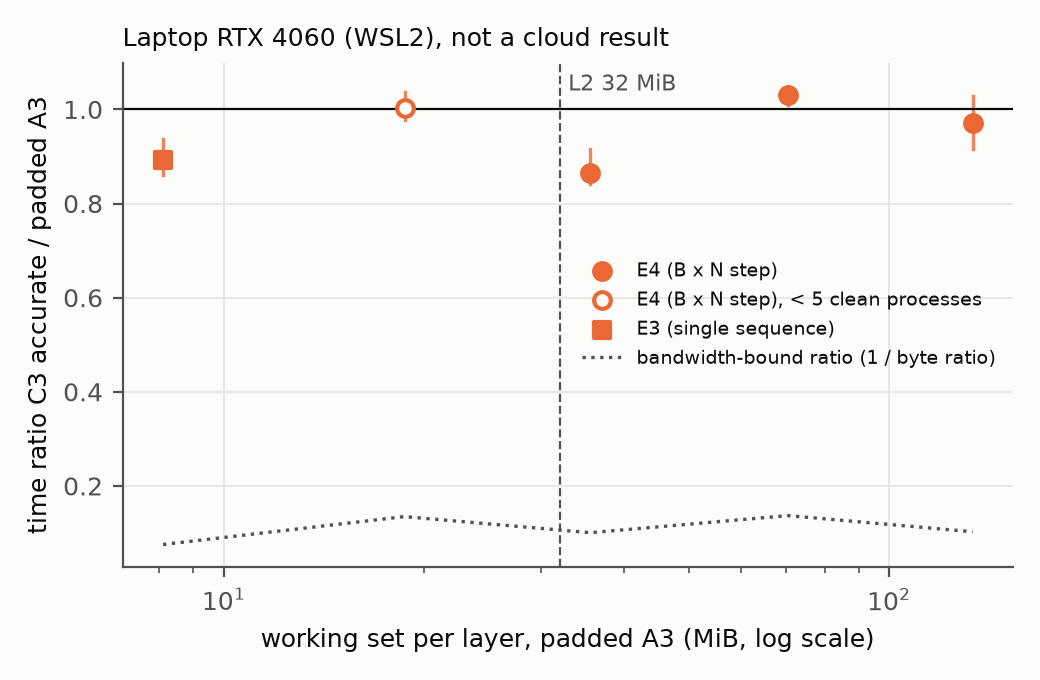
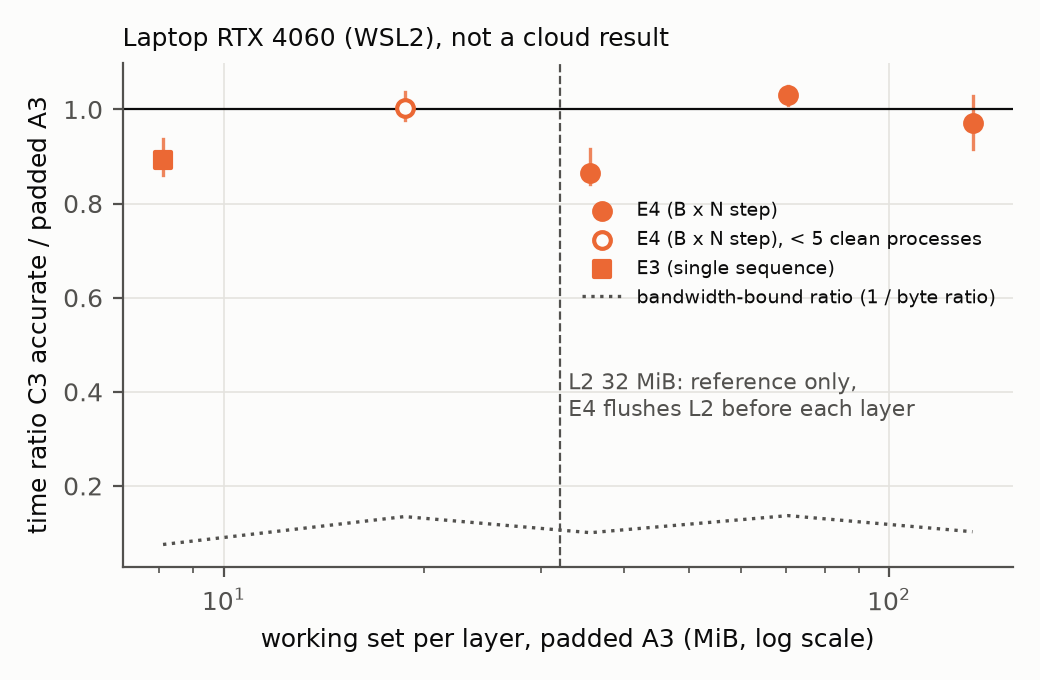
feat(paper): numerics figure; regime map L2 line labelled reference only
fig4_numerics.py plots max error vs N (total and kernel-attributable)
from the E3 scale log and the CPU rounding emulation. fig3 gets an
--l2-label option; the committed regime map now says the L2 line is a
reference only because E4 flushes L2 before each layer. Data unchanged.

Changed region(s): [[0.5538, 0.2779, 0.9538, 0.6176], [0.5538, 0.0926, 0.6462, 0.1544], [0.8615, 0.4941, 0.9538, 0.5559]]

diff --git a/scripts/paper/fig4_numerics.py b/scripts/paper/fig4_numerics.py
@@ -1,0 +1,85 @@
+#!/usr/bin/env python3
+"""Fig. 4, numerics: (a) max |error| vs N on heavy-tailed and uniform inputs, total (solid) and
+kernel-attributable (dotted) per variant, from the GPU scale suite; (b) the CPU emulation that
+isolates which FP16 rounding causes the heavy-tailed error. Reads only committed result files:
+reports/e3_splitk_20261002/scale_c3_modes/scale_suite.log and scale/emulate_c3_numerics.out.
+
+usage: fig4_numerics.py --out reports/local_4060_20261101/figures/fig4_numerics.png
+"""
+
+import argparse
+import re
+import sys
+from pathlib import Path
+
+sys.path.insert(0, str(Path(__file__).resolve().parent))
+from make_tables import E3REP, scale_rows  # noqa: E402
+from paper_data import COLORS, INK, NAMES  # noqa: E402
+
+VARIANTS = ("c3_fast", "c3_accurate", "a3pad")
+
+
+def emulation_rows(path):
+    rows = []
+    for line in Path(path).read_text().splitlines():
+        m = re.match(r"(.+?)\s+max=(\S+) mean=(\S+)", line)
+        if m:
+            rows.append((m.group(1).strip(), float(m.group(2))))
+    return rows
+
+
+def render(rows, emu, out):
+    from plotstyle import setup
+
+    plt = setup()
+    fig, (ax, bx) = plt.subplots(1, 2, figsize=(7.0, 3.0), dpi=200, width_ratios=[1.25, 1])
+    for inputs, marker, alpha in (("heavy_tailed", "o", 1.0), ("uniform", "s", 0.45)):
+        for v in VARIANTS:
+            sel = sorted((r for r in rows if r["inputs"] == inputs and r["variant"] == v),
+                         key=lambda r: r["n"])
+            ns = [r["n"] for r in sel]
+            label = f"{NAMES[v]}" if inputs == "heavy_tailed" else None
+            ax.plot(ns, [r["total"] for r in sel], marker=marker, ms=4, color=COLORS[v],
+                    alpha=alpha, label=label)
+            ax.plot(ns, [r["kernel"] for r in sel], ls=":", marker=marker, ms=3,
+                    color=COLORS[v], alpha=alpha)
+    ax.axhline(3e-3, color=INK["secondary"], lw=0.8, ls="--")
+    ax.text(4096, 3.15e-3, "3e-3 gate", fontsize=7, color=INK["secondary"])
+    ax.set_xscale("log", base=2)
+    ax.set_yscale("log")
+    ax.set_xlabel("context length N")
+    ax.set_ylabel("max |error| vs exact reference")
+    ax.set_title("(a) solid: total, dotted: kernel-attributable\n"
+                 "circles: heavy-tailed, faded squares: uniform", fontsize=7.5)
+    fig.legend(*ax.get_legend_handles_labels(), loc="lower left", ncol=3, fontsize=7,
+               bbox_to_anchor=(0.01, 0.0))
+
+    labels = [lab.replace(" (online softmax only)", "").replace(" (C3 numerics)", "")
+              for lab, _ in emu]
+    bx.barh(range(len(emu)), [v for _, v in emu], color=COLORS["c3_fast"])
+    bx.set_yticks(range(len(emu)), labels, fontsize=7)
+    bx.invert_yaxis()
+    bx.set_xscale("log")
+    bx.set_xlabel("max |error| (CPU emulation)")
+    bx.set_title("(b) heavy-tailed, N=8192: which rounding", fontsize=7.5)
+    fig.text(0.99, 0.02, "laptop RTX 4060, WSL2, not a cloud result; no timing",
+             ha="right", fontsize=6, color=INK["secondary"])
+    fig.tight_layout(rect=(0, 0.09, 1, 1))
+    Path(out).parent.mkdir(parents=True, exist_ok=True)
+    fig.savefig(out)
+    print(f"FIG4_OK {out}")
+
+
+def main(argv=None):
+    ap = argparse.ArgumentParser(description=__doc__.splitlines()[0])
+    ap.add_argument("--out", required=True)
+    args = ap.parse_args(argv)
+    rows = scale_rows(E3REP / "scale_c3_modes" / "scale_suite.log")
+    emu = emulation_rows(E3REP / "scale" / "emulate_c3_numerics.out")
+    if not rows or not emu:
+        raise SystemExit("no rows parsed from the scale log or emulation output")
+    render(rows, emu, args.out)
+
+
+if __name__ == "__main__":
+    main()

diff --git a/scripts/paper/fig3_regime_map.py b/scripts/paper/fig3_regime_map.py
@@ -18,7 +18,7 @@ from paper_data import COLORS, INK, load_analysis, regime_points, synthetic_anal
 MARKERS = {"e3_timing": "s", "e4_timing": "o"}
 
 
-def render(points, l2_mib, out, title):
+def render(points, l2_mib, out, title, l2_label=None):
     from plotstyle import setup
 
     plt = setup()
@@ -62,9 +62,9 @@ def render(points, l2_mib, out, title):
     ax.axhline(1.0, color=INK["primary"], lw=0.8)
     ax.axvline(l2_mib, color=INK["secondary"], lw=0.8, ls="--")
     ax.annotate(
-        f"L2 {l2_mib:g} MiB",
-        (l2_mib, ax.get_ylim()[1]),
-        xytext=(3, -10),
+        l2_label or f"L2 {l2_mib:g} MiB",
+        (l2_mib, ax.get_ylim()[0] + 0.3 * (ax.get_ylim()[1] - ax.get_ylim()[0])),
+        xytext=(3, 0),
         textcoords="offset points",
         fontsize=8,
         color=INK["secondary"],
@@ -73,7 +73,7 @@ def render(points, l2_mib, out, title):
     ax.set_xlabel("working set per layer, padded A3 (MiB, log scale)")
     ax.set_ylabel("time ratio C3 accurate / padded A3")
     ax.set_title(title, fontsize=9, loc="left")
-    ax.legend(fontsize=7, loc="best")
+    ax.legend(fontsize=7, loc="center right", bbox_to_anchor=(1.0, 0.62))
     fig.tight_layout()
     fig.savefig(out)
     plt.close(fig)
@@ -86,6 +86,7 @@ def main(argv=None):
     ap.add_argument("--l2-mib", type=float)
     ap.add_argument("--out", required=True)
     ap.add_argument("--title", default="")
+    ap.add_argument("--l2-label", help="text next to the L2 line (default: 'L2 <size> MiB')")
     ap.add_argument("--self-test", action="store_true")
     a = ap.parse_args(argv)
     if a.self_test:
@@ -98,7 +99,7 @@ def main(argv=None):
         title, l2 = a.title, a.l2_mib
     if not points:
         raise SystemExit("no configurations with a ratio and analytic bytes")
-    print(render(points, l2, a.out, title))
+    print(render(points, l2, a.out, title, a.l2_label))
 
 
 if __name__ == "__main__":

diff --git a/reports/local_4060_20261101/README.md b/reports/local_4060_20261101/README.md
@@ -42,7 +42,8 @@ AC power and the Windows "High performance" plan (checked through `powershell.ex
 
 ## Figure captions
 
-- `fig3_regime_map.png`: C3 accurate / padded A3, primary dataset, vs padded-A3 bytes per layer. Filled = claim-eligible (>= 5 clean processes); hollow = not. E3 points (squares) are from the old harness version; E4 points from the new one. **The L2 line is a reference only: E4 flushes 64 MiB before every layer and each KV block is read once per layer, so every E4 layer starts cold whatever its size.** Configurations with 0 clean processes have no point.
+- `fig3_regime_map.png`: C3 accurate / padded A3, primary dataset, vs padded-A3 bytes per layer. Filled = claim-eligible (>= 5 clean processes); hollow = not. E3 points (squares) are from the old harness version; E4 points from the new one. **The L2 line is a reference only: E4 flushes 64 MiB before every layer and each KV block is read once per layer, so every E4 layer starts cold whatever its size.** Configurations with 0 clean processes have no point. (Re-rendered 2026-11-01 with the L2 label reading "reference only, E4 flushes L2 before each layer"; data unchanged.)
+- `fig4_numerics.png`: GPU correctness only, no timing. (a) max |error| vs N, total and kernel-attributable, from `reports/e3_splitk_20261002/scale_c3_modes/scale_suite.log`; (b) the CPU emulation `reports/e3_splitk_20261002/scale/emulate_c3_numerics.out`. Rendered by `scripts/paper/fig4_numerics.py`.
 - `fig2_roofline_e4.png`: clean median step time vs analytic bytes per step for E4. The 256 GB/s floor is the nominal spec of the RTX 4060 Laptop's memory interface, **not measured** on this host.
 - `fig1_clock_trace_e4_B32_N8192_clean.png`: SM clock and per-layer latency for a clean process (in band; note the y-axis spans only 2580-2595 MHz). The first ~30 samples are ~1.9 ms for both variants against ~1.3 ms afterwards (start-of-timing transient).
 - `fig1_clock_trace_e4_B1_N1024_instrument_failure.png`: the same plot for a Block 2 re-run process under the old re-warm, where the clock oscillated between ~300 and ~1550 MHz.
